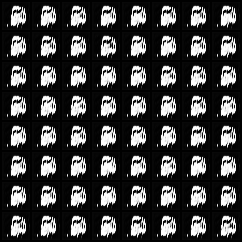
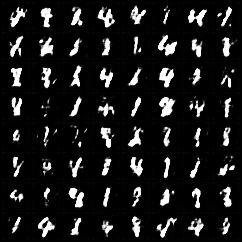
update

diff --git a/Codes/Original GAN/model/generator.py b/Codes/Original GAN/model/generator.py
@@ -53,12 +53,12 @@ class Generator_Conv(nn.Module):
             # nn.Dropout(0.3),
             nn.LeakyReLU(True),
 
-            nn.Linear(256, 484),
+            # nn.Linear(256, 484),
             # nn.BatchNorm1d(484),
             # nn.Dropout(0.5),
-            nn.LeakyReLU(True),
+            # nn.LeakyReLU(True),
         )
-        # the output size of self.expand is 484, because the image's size is 22 * 22
+        # the output size of self.expand is 256, because the image's size is 16 * 16
         # this size is set to match the up-sampling process that follows, which will increase the size to 28 * 28
 
         '''
@@ -69,20 +69,20 @@ class Generator_Conv(nn.Module):
         '''
         self.gen = nn.Sequential(
             # 2-d transpose convolutional layer, input channels is 1, output channels is 4, kernel size is 3
-            nn.ConvTranspose2d(1, 4, kernel_size=3),
-            # the output size of this layer is 22 -1 + 3 = 24 * 24
+            nn.ConvTranspose2d(1, 4, kernel_size=5),
+            # the output size of this layer is 16 - 1 + 5 = 20 * 20
             # nn.BatchNorm2d(4),
             nn.LeakyReLU(True),
 
-            # 2-d transpose convolutional layer, input channels is 4, output channels is 8, kernel size is 3
-            nn.ConvTranspose2d(4, 8, kernel_size=3),
-            # the output size of this layer is 24 -1 + 3 = 26 * 26
+            # 2-d transpose convolutional layer, input channels is 4, output channels is 8, kernel size is 5
+            nn.ConvTranspose2d(4, 8, kernel_size=5),
+            # the output size of this layer is 20 - 1 + 5 = 24 * 24
             # nn.BatchNorm2d(8),
             nn.LeakyReLU(True),
 
-            # 2-d transpose convolutional layer, input channels is 8, output channels is 4, kernel size is 3
-            nn.ConvTranspose2d(8, 4, kernel_size=3),
-            # the output size of this layer is 26 -1 + 3 = 28 * 28
+            # 2-d transpose convolutional layer, input channels is 8, output channels is 4, kernel size is 5
+            nn.ConvTranspose2d(8, 4, kernel_size=5),
+            # the output size of this layer is 24 - 1 + 5 = 28 * 28
             # nn.BatchNorm2d(4),
             nn.LeakyReLU(True),
 
@@ -101,9 +101,9 @@ class Generator_Conv(nn.Module):
         # image_noise's shape is (batch_size, 256)
         output = self.expand(image_noise)
 
-        # output's shape is (batch_size, 484)
-        # reshape the output to (batch_size, 1, 22, 22)
-        output = output.view(-1, 1, 22, 22)
+        # output's shape is (batch_size, 256)
+        # reshape the output to (batch_size, 1, 16, 16)
+        output = output.view(-1, 1, 16, 16)
 
         # up-sampling the output to (batch_size, 1, 28, 28)
         output = self.gen(output)

diff --git a/Codes/Original GAN/model/discriminator.py b/Codes/Original GAN/model/discriminator.py
@@ -25,7 +25,7 @@ class Discriminator_Conv(nn.Module):
         
         self.features = nn.Sequential(
             # 2-d convolutional layer, input channels is 1 (grayscale images), output channels is 32, kernel size is 3
-            nn.Conv2d(1, 32, kernel_size=3),
+            nn.Conv2d(1, 32, kernel_size=5),
 
             # batch normalization, 32 is the number of output channels of the last Conv2d layer
             # nn.BatchNorm2d(32),
@@ -34,27 +34,27 @@ class Discriminator_Conv(nn.Module):
             nn.LeakyReLU(0.2),
 
             # 2-d convolutional layer, input channels is 32, output channels is 64, kernel size is 3
-            nn.Conv2d(32, 64, kernel_size=3),
+            nn.Conv2d(32, 64, kernel_size=5),
             # nn.BatchNorm2d(64),
             nn.LeakyReLU(0.2),
         )
 
         '''
-        self.features's output's shape is (batch_size, 64, 24, 24)
+        self.features's output's shape is (batch_size, 64, 20, 20)
         64 is the number of output channels of the last Conv2d layer
-        24 is the height and width of the output of the last Conv2d layer
+        20 is the height and width of the output of the last Conv2d layer
 
         compute the size of the output of the Conv2d layer: (padding (填充) = 0, stride (步长) = 1)
         new size = (old size - kernel size + 2 * padding) / stride + 1
 
-        so after the first Conv2d layer, the size of the output is (28 - 3 + 0) / 1 + 1 = 26, output channels is 32
-        after the second Conv2d layer, the size of the output is (26 - 3 + 0) / 1 + 1 = 24, output channels is 64
+        so after the first Conv2d layer, the size of the output is (28 - 5 + 0) / 1 + 1 = 24, output channels is 32
+        after the second Conv2d layer, the size of the output is (24 - 5 + 0) / 1 + 1 = 20, output channels is 64
 
         so at the end the size of output is 64 * 24 * 24
         '''
 
         self.classifier = nn.Sequential(
-            nn.Linear(64*24*24, 1024),
+            nn.Linear(64*20*20, 1024),
             nn.LeakyReLU(0.2),
 
             nn.Linear(1024, 512),
@@ -69,8 +69,8 @@ class Discriminator_Conv(nn.Module):
         # get images' features
         features = self.features(image)
 
-        # features' shape is (batch_size, 64, 24, 24)
-        # reshape features to (batch_size, 64 * 24 * 24)
+        # features' shape is (batch_size, 64, 20, 20)
+        # reshape features to (batch_size, 64 * 20 * 20)
         features = features.view(features.shape[0], -1)
 
         # get output

diff --git a/Codes/Original GAN/main.py b/Codes/Original GAN/main.py
@@ -24,16 +24,16 @@ class config:
     # whether use old model
     from_old_model = False
 
+    # generator's input size
+    # G_type = D_type = 'Linear'
+    G_type = D_type = 'Conv'
+
     # training parameters
-    num_epochs = 20
+    num_epochs = 5 if G_type == 'Conv' else 20
     batch_size = 64
 
     # optimizer parameters
     lr = 0.0003
-
-    # generator's input size
-    G_type = D_type = 'Linear'
-    # G_type = D_type = 'Conv'
 
     img_seed_dim = 100
 
